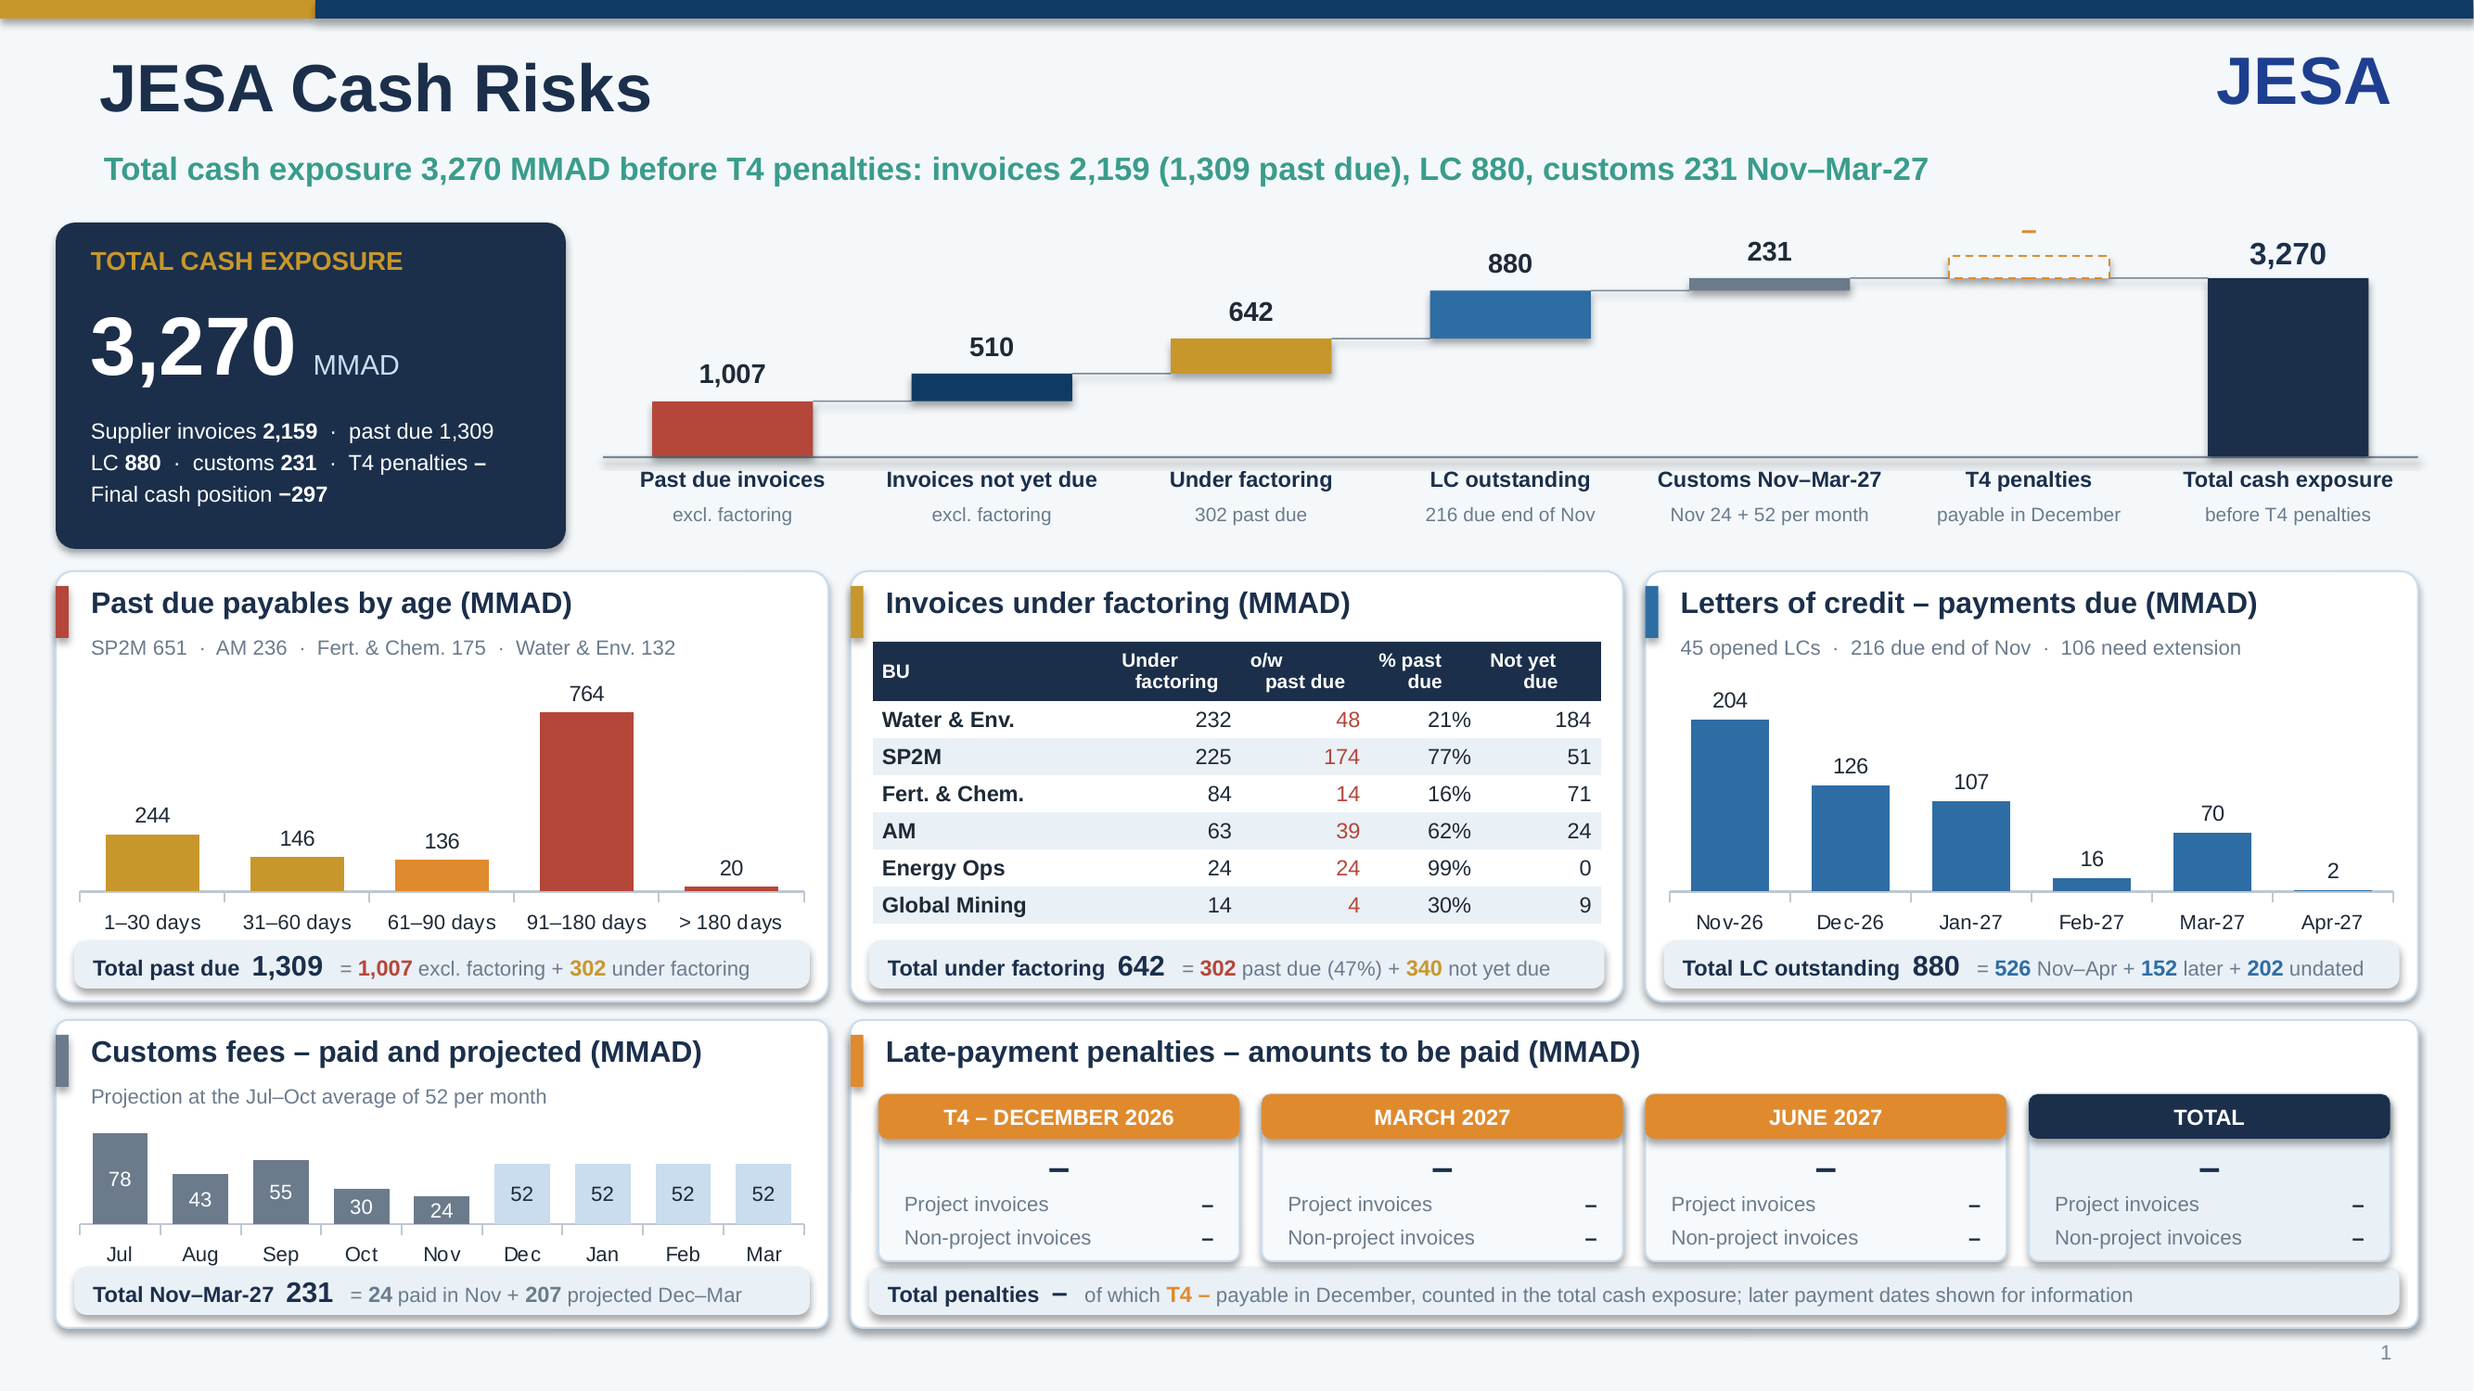
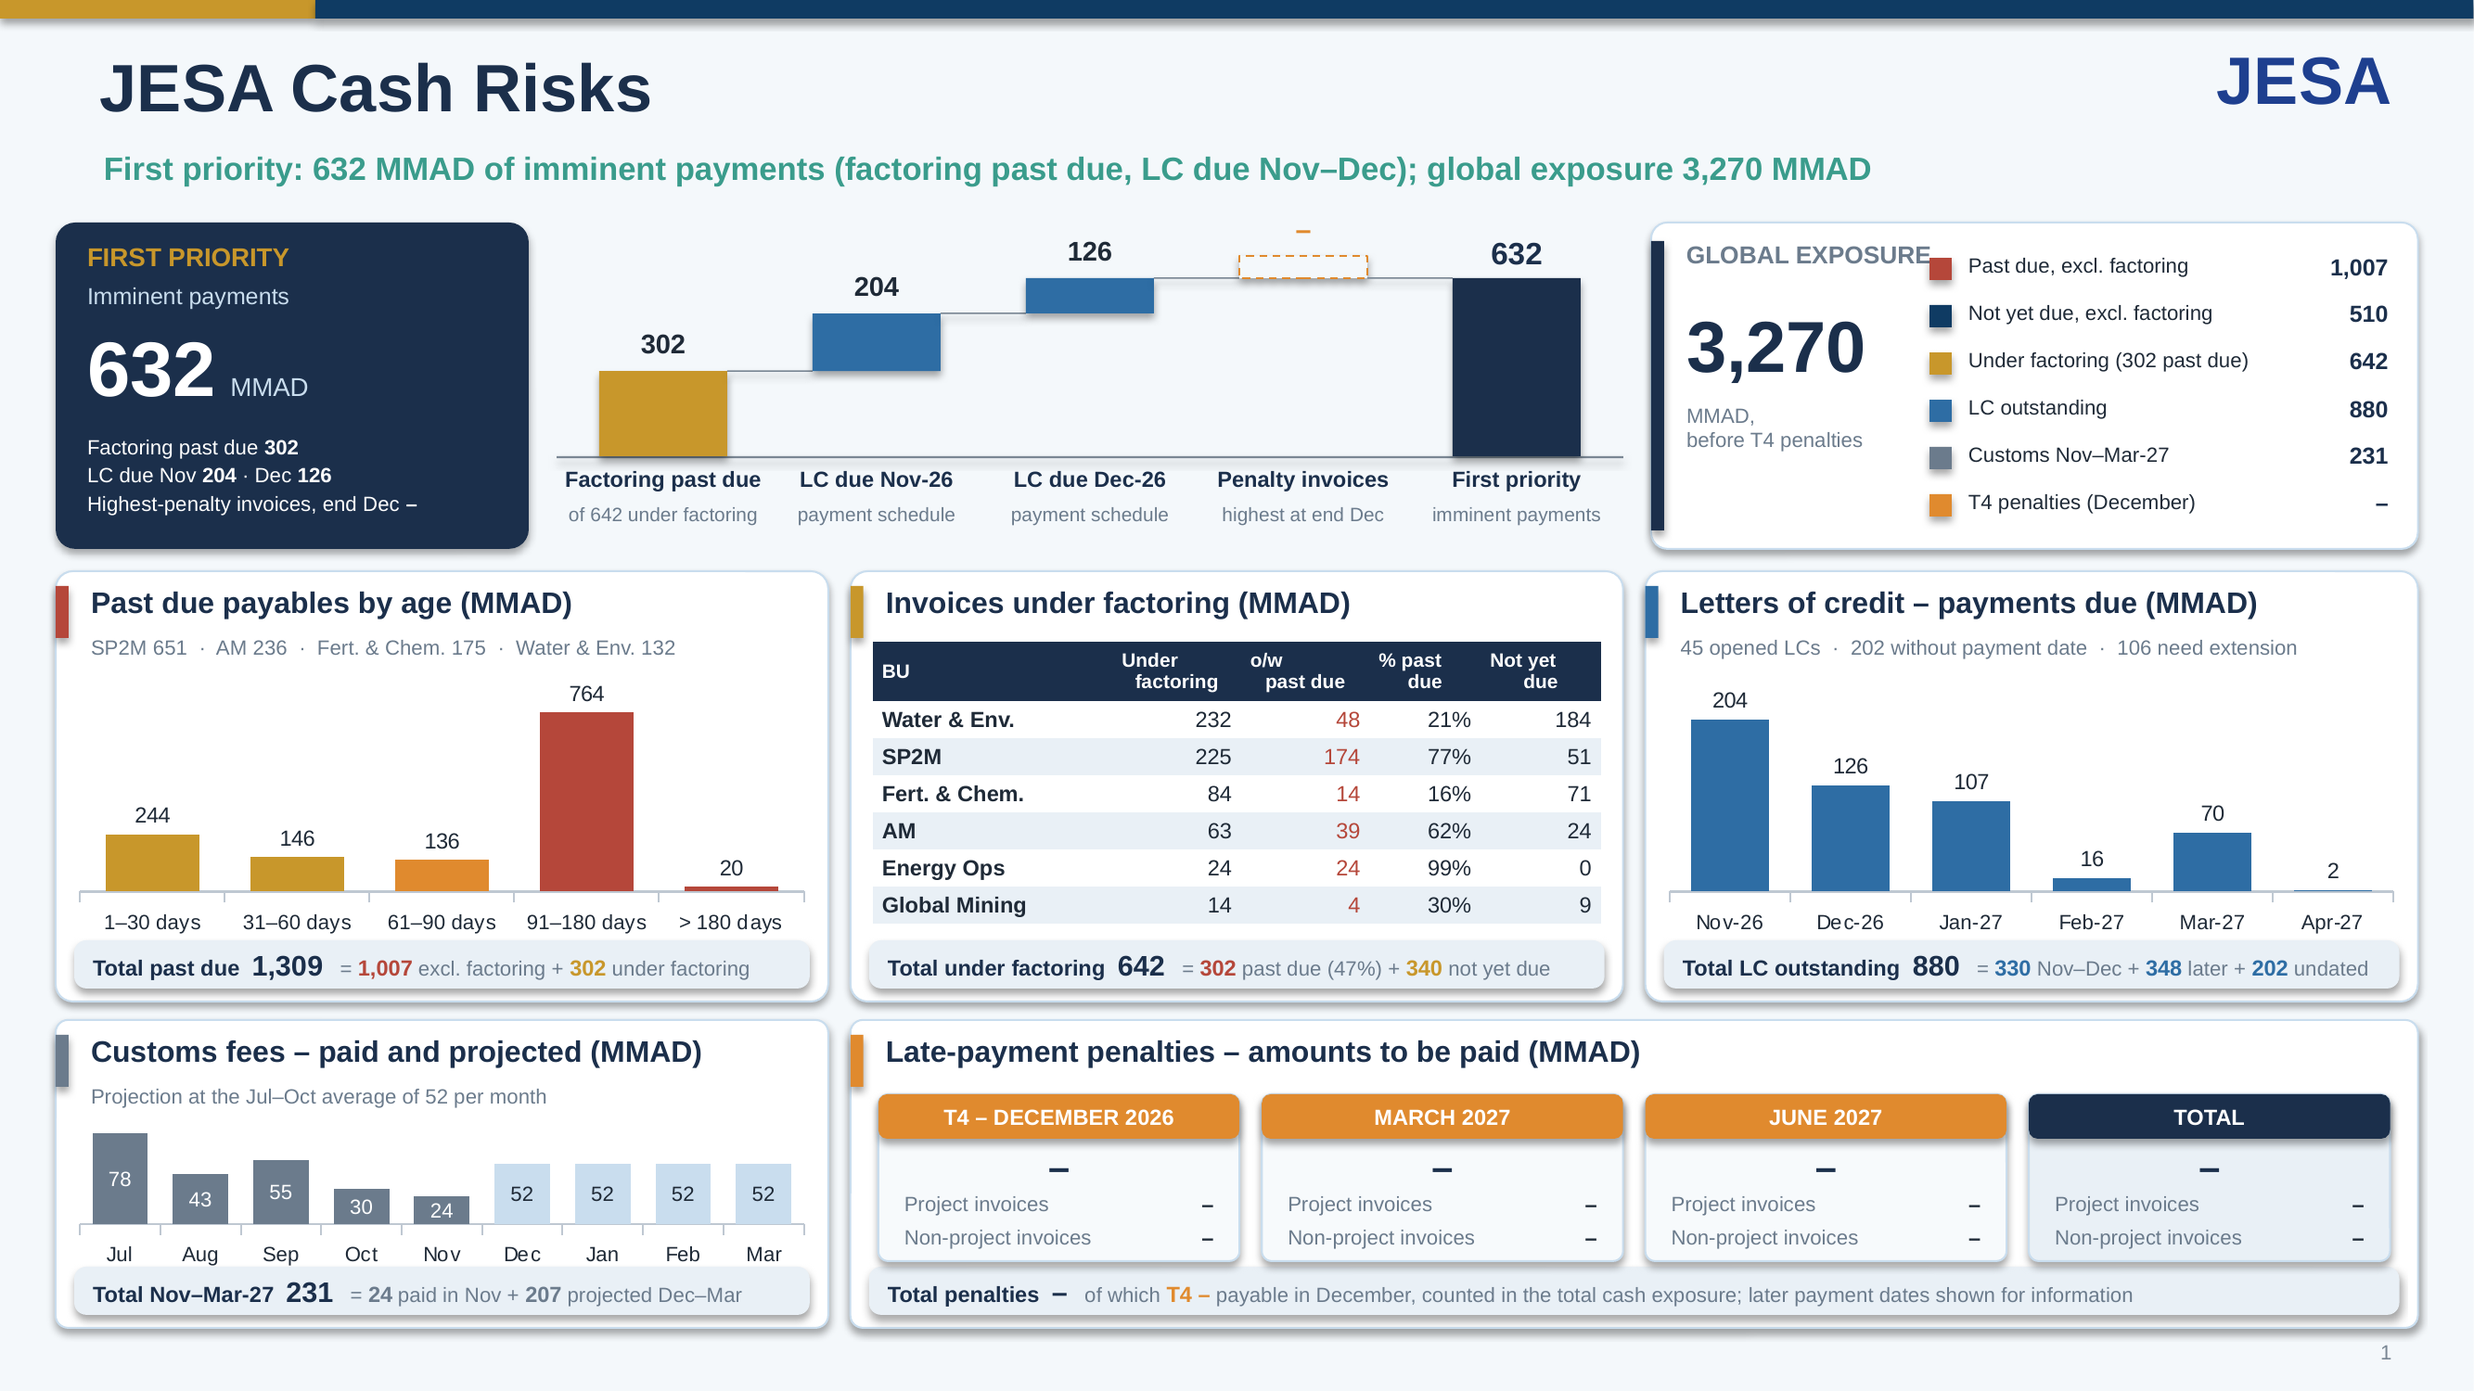
Cash risks slide: first-priority imminent payments waterfall, global exposure box
Claude-Session: https://claude.ai/code/session_01GRGYp2p9fdXmxQMcLgyM1e

Changed region(s): [[0.0311, 0.092, 0.9959, 0.3987], [0.7469, 0.46, 0.9336, 0.4907], [0.8403, 0.6747, 0.9648, 0.7053]]

diff --git a/weekly-ar-cash-deck/build_deck.py b/weekly-ar-cash-deck/build_deck.py
@@ -1500,24 +1500,28 @@ def build(data, meta, out):
         pen_tot = ((ps[dues[0]].get("project") or 0) + (ps[dues[0]].get("non_project") or 0)) if dues[0] in ps else None
         pen_lab = "T4 penalties"; pen_when = dt.date.fromisoformat(dues[0] + "-01").strftime("%B")
         expo = r_inv + lc_all + cus_expo + (pen_tot or 0)
-        s = D.slide("JESA Cash Risks", f"Total cash exposure {f0(expo)} MMAD" + ("" if pen_tot is not None else " before T4 penalties") + f": invoices {f0(r_inv)} ({f0(r_pd)} past due), LC {f0(lc_all)}, customs {f0(cus_expo)} {com}–{mar_lab}")
-        # ---- top: total exposure and its build-up by category
+        _im0 = r_fpd + sum(mt[m] for m in months[:2])
+        s = D.slide("JESA Cash Risks", f"First priority: {f0(_im0)} MMAD of imminent payments (factoring past due, LC due {dt.date.fromisoformat(str(months[0])[:7] + '-01').strftime('%b')}–{dt.date.fromisoformat(str(months[1])[:7] + '-01').strftime('%b')}); global exposure {f0(expo)} MMAD")
+        # ---- top: first priority (imminent payments, waterfall) and the global exposure
         ty, th = 1.2, 1.76
-        rect(s, 0.3, ty, 2.75, th, NAVY, shape=MSO_SHAPE.ROUNDED_RECTANGLE, radius=0.06)
-        tb(s, 0.45, ty + 0.1, 2.5, 0.26, "TOTAL CASH EXPOSURE", size=10, bold=True, color=GOLD)
-        tb(s, 0.45, ty + 0.36, 2.5, 0.6, [[(f0(expo), {"size": 32, "bold": True, "color": WHITE}), ("  MMAD", {"size": 11, "color": LBLUE})]])
-        tb(s, 0.45, ty + 1.0, 2.5, 0.8, [[("Supplier invoices ", {}), (f0(r_inv), {"bold": True}), (f"  ·  past due {f0(r_pd)}", {})],
-                                           [("LC ", {}), (f0(lc_all), {"bold": True}), ("  ·  customs ", {}), (f0(cus_expo), {"bold": True}), ("  ·  T4 penalties ", {}), ((f1(pen_tot) if pen_tot is not None else "–"), {"bold": True})],
-                                           [("Final cash position ", {}), (fd(net_all), {"bold": True})]], size=8.5, color=WHITE, line_spacing=1.2)
-        wcat = [("Past due invoices", "excl. factoring", r_pd - r_fpd, RED), ("Invoices not yet due", "excl. factoring", (r_inv - r_pd) - (r_f - r_fpd), NAVY2),
-                ("Under factoring", f"{f0(r_fpd)} past due", r_f, GOLD), ("LC outstanding", f"{f0(appr_lc)} due end of {com}", lc_all, BLUE),
-                (f"Customs {com}–{mar_lab}", f"{com} {f0(cus_m[-1][1])} + {f0(cus_avg)} per month", cus_expo, SLATE), (pen_lab, f"payable in {pen_when}", pen_tot, ORANGE),
-                ("Total cash exposure", ("" if pen_tot is not None else "before T4 penalties"), expo, NAVY)]
-        wx, ww = 3.25, SW - 0.3 - 3.25; n_ = len(wcat); slot = ww / n_; bwid = slot * 0.62; base_y = ty + th - 0.5; top_y = ty + 0.3; sc = (base_y - top_y) / (expo or 1)
+        def _ml(m): return dt.date.fromisoformat(str(m)[:7] + "-01").strftime("%b")
+        lc_im = [(m, mt[m]) for m in months[:2]]   # LC payments due in the month in progress and the next one
+        pinv = meta.get("ap_penalty_priority_invoices"); pinv = float(pinv) if pinv not in (None, "", "None") else None   # invoices that generate the highest penalties at the first payment date
+        imm = r_fpd + sum(v for _, v in lc_im) + (pinv or 0)
+        rect(s, 0.3, ty, 2.55, th, NAVY, shape=MSO_SHAPE.ROUNDED_RECTANGLE, radius=0.06)
+        tb(s, 0.43, ty + 0.08, 2.35, 0.24, "FIRST PRIORITY", size=10, bold=True, color=GOLD)
+        tb(s, 0.43, ty + 0.3, 2.35, 0.22, "Imminent payments", size=9, color=LBLUE)
+        tb(s, 0.43, ty + 0.5, 2.35, 0.56, [[(f0(imm), {"size": 30, "bold": True, "color": WHITE}), ("  MMAD", {"size": 10, "color": LBLUE})]])
+        tb(s, 0.43, ty + 1.1, 2.35, 0.62, [[("Factoring past due ", {}), (f0(r_fpd), {"bold": True})],
+                                            [("LC due ", {})] + [x for j, (m, v) in enumerate(lc_im) for x in (((" · ", {}),) if j else ()) + ((f"{_ml(m)} ", {}), (f0(v), {"bold": True}))],
+                                            [(f"Highest-penalty invoices, end {pen_when[:3]} ", {}), ((f0(pinv) if pinv is not None else "–"), {"bold": True})]], size=8, color=WHITE, line_spacing=1.15)
+        wcat = [("Factoring past due", f"of {f0(r_f)} under factoring", r_fpd, GOLD)] + [(f"LC due {_ml(m)}-{str(m)[2:4]}", "payment schedule", v, BLUE) for m, v in lc_im] + \
+               [("Penalty invoices", f"highest at end {pen_when[:3]}", pinv, ORANGE), ("First priority", "imminent payments", imm, NAVY)]
+        wx, ww = 3.0, 5.75; n_ = len(wcat); slot = ww / n_; bwid = slot * 0.6; base_y = ty + th - 0.5; top_y = ty + 0.3; sc = (base_y - top_y) / (imm or 1)
         rect(s, wx, base_y, ww, 0.012, GREY); run = 0.0
         for i, (lab, sub, v, col) in enumerate(wcat):
             bx = wx + i * slot + (slot - bwid) / 2; last = i == n_ - 1
-            y_top = base_y - ((expo if last else run + (v or 0)) * sc); y_bot = base_y if last else base_y - run * sc
+            y_top = base_y - ((imm if last else run + (v or 0)) * sc); y_bot = base_y if last else base_y - run * sc
             if v is None:   # nothing to show yet: dotted placeholder at the running level
                 ph = rect(s, bx, y_bot - 0.12, bwid, 0.12, BG, line=col); ph.line.dash_style = 4
                 tb(s, bx - 0.2, y_bot - 0.38, bwid + 0.4, 0.24, "–", size=11, bold=True, color=col, align=PP_ALIGN.CENTER)
@@ -1526,8 +1530,21 @@ def build(data, meta, out):
                 tb(s, bx - 0.2, y_top - 0.26, bwid + 0.4, 0.24, f0(v), size=(12 if last else 10.5), bold=True, color=(NAVY if last else DARK), align=PP_ALIGN.CENTER)
                 if not last: run += v
             if not last: rect(s, bx + bwid, base_y - run * sc - 0.004, slot - bwid, 0.008, GREY)   # connector to the next bar
-            tb(s, wx + i * slot, base_y + 0.03, slot, 0.22, lab, size=8.5, bold=True, color=NAVY, align=PP_ALIGN.CENTER)
-            if sub: tb(s, wx + i * slot, base_y + 0.23, slot, 0.2, sub, size=7.5, color=SLATE, align=PP_ALIGN.CENTER)
+            tb(s, wx + i * slot - 0.05, base_y + 0.03, slot + 0.1, 0.22, lab, size=8.5, bold=True, color=NAVY, align=PP_ALIGN.CENTER)
+            if sub: tb(s, wx + i * slot - 0.05, base_y + 0.23, slot + 0.1, 0.2, sub, size=7.5, color=SLATE, align=PP_ALIGN.CENTER)
+        # global exposure: one box, by category
+        gx_ = wx + ww + 0.15; gw_ = SW - 0.3 - gx_
+        rect(s, gx_, ty, gw_, th, WHITE, line=LBLUE, shape=MSO_SHAPE.ROUNDED_RECTANGLE, radius=0.05); rect(s, gx_, ty + 0.1, 0.07, th - 0.2, NAVY)
+        tb(s, gx_ + 0.15, ty + 0.07, 1.5, 0.24, "GLOBAL EXPOSURE", size=9.5, bold=True, color=SLATE)
+        tb(s, gx_ + 0.15, ty + 0.4, 1.45, 0.5, f0(expo), size=28, bold=True, color=NAVY)
+        tb(s, gx_ + 0.15, ty + 0.95, 1.45, 0.5, ["MMAD" + ("" if pen_tot is not None else ","), ("" if pen_tot is not None else "before T4 penalties")], size=8, color=SLATE, line_spacing=1.0)
+        grow = [("Past due, excl. factoring", r_pd - r_fpd, RED), ("Not yet due, excl. factoring", (r_inv - r_pd) - (r_f - r_fpd), NAVY2), (f"Under factoring ({f0(r_fpd)} past due)", r_f, GOLD),
+                ("LC outstanding", lc_all, BLUE), (f"Customs {com}–{mar_lab}", cus_expo, SLATE), (f"{pen_lab} ({pen_when})", pen_tot, ORANGE)]
+        rx = gx_ + 1.5; rw = gw_ - 1.5 - 0.12
+        for k, (lab, v, col) in enumerate(grow):
+            ry = ty + 0.14 + k * 0.255
+            rect(s, rx, ry + 0.05, 0.12, 0.12, col); tb(s, rx + 0.17, ry, rw - 0.72, 0.22, lab, size=8, color=DARK)
+            tb(s, rx + rw - 0.6, ry, 0.6, 0.22, (f0(v) if v is not None else "–"), size=9, bold=True, color=NAVY, align=PP_ALIGN.RIGHT)
         def panel(x, y, w, h, title, sub=None, accent=NAVY2):
             rect(s, x, y, w, h, WHITE, line=LBLUE, shape=MSO_SHAPE.ROUNDED_RECTANGLE, radius=0.04); rect(s, x, y + 0.08, 0.07, 0.28, accent)
             tb(s, x + 0.15, y + 0.05, w - 0.3, 0.28, title, size=11.5, bold=True, color=NAVY)
@@ -1554,10 +1571,10 @@ def build(data, meta, out):
         total_strip(x2, y1, pw, h1, "Total under factoring", f0(r_f), [("= ", {}), B(f0(r_fpd), RED), (f" past due ({r_fpd/(r_f or 1)*100:.0f}%) + ", {}), B(f0(r_f - r_fpd), GOLD), (" not yet due", {})])
         # ---- 3. letters of credit: payments due by month
         lm = months[:6]
-        panel(x3, y1, pw, h1, "Letters of credit – payments due (MMAD)", f"{n_lc} opened LCs  ·  {f0(appr_lc)} due end of {com}" + (f"  ·  {f0(lc_ext)} need extension" if lc_ext > 0.5 else ""), BLUE)
+        panel(x3, y1, pw, h1, "Letters of credit – payments due (MMAD)", f"{n_lc} opened LCs  ·  {f0(lc_all - lc_sched)} without payment date" + (f"  ·  {f0(lc_ext)} need extension" if lc_ext > 0.5 else ""), BLUE)
         bar_chart(s, x3 + 0.05, y1 + 0.56, pw - 0.1, h1 - 0.6 - ST, [dt.date.fromisoformat(str(m)[:7] + "-01").strftime("%b-%y") for m in lm], [("LC payments", [mt[m] for m in lm])], [BLUE], legend=False, gap=55, cat_size=8, label_size=8.5, label_pos=XL_LABEL_POSITION.OUTSIDE_END)
         lc6 = sum(mt[m] for m in lm)
-        total_strip(x3, y1, pw, h1, "Total LC outstanding", f0(lc_all), [("= ", {}), B(f0(lc6), BLUE), (f" {dt.date.fromisoformat(str(lm[0])[:7] + '-01').strftime('%b')}–{dt.date.fromisoformat(str(lm[-1])[:7] + '-01').strftime('%b')} + ", {}), B(f0(lc_sched - lc6), BLUE), (" later + ", {}), B(f0(lc_all - lc_sched), BLUE), (" undated", {})])
+        total_strip(x3, y1, pw, h1, "Total LC outstanding", f0(lc_all), [("= ", {}), B(f0(sum(mt[m] for m in months[:2])), BLUE), (f" {dt.date.fromisoformat(str(months[0])[:7] + '-01').strftime('%b')}–{dt.date.fromisoformat(str(months[1])[:7] + '-01').strftime('%b')} + ", {}), B(f0(lc_sched - sum(mt[m] for m in months[:2])), BLUE), (" later + ", {}), B(f0(lc_all - lc_sched), BLUE), (" undated", {})])
         # ---- 4. customs fees: paid and projected
         panel(x1, y2, pw, h2, "Customs fees – paid and projected (MMAD)", f"Projection at the Jul–{cam} average of {f0(cus_avg)} per month" if proj_m else f"Paid since July {f0(cus_tot)}", SLATE)
         ccats = [m for m, _ in cus_m] + proj_m

diff --git a/weekly-ar-cash-deck/extract_inputs.py b/weekly-ar-cash-deck/extract_inputs.py
@@ -1122,6 +1122,7 @@ def main():
             "collections_to": a.collections_to or "19/10", "payments_to": a.payments_to or "15/10", "lc_date": a.lc_date or "19/10", "ap_label": a.ap_label or "Oct W3",
             "cash_basis": cash["basis"], "units": "MMAD (millions of MAD)", "ur_prev_source": (ur or {}).get("prev_source", ""), "collections_basis": "AR paid lines by payment date, amount invoiced (same basis as 'Invoices paid' in the BU meeting report)",
             "deposited_month": cur["deposited_total"], "note_psr_signature": a.psr_note or "",
+            "ap_penalty_priority_invoices": (pen or {}).get("priority_invoices"),
             "ap_penalties": (pen or {}).get("total"), "ap_penalties_label": (pen or {}).get("label") or "",
             "rfq1_month": (rfq1 or {}).get("month") or "",
             "ap_total_prev": P.get("ap_total"), "ap_overdue_prev": P.get("ap_overdue"),

diff --git a/.claude/skills/weekly-ar-deck/SKILL.md b/.claude/skills/weekly-ar-deck/SKILL.md
@@ -217,12 +217,14 @@ The reviewer used to strip the deck by hand before sending; the builder now prod
 `build_deck.py --only risk --out output/JESA_Cash_Risks_<week>.pptx` (built by `run_week.sh`; `--with-risk` puts it in the
 deck after the LC slide, only when asked). Content:
 
-- Top: **total cash exposure** = supplier invoices + LC outstanding + customs from the month in progress to next March
-  (paid to date in the month + projection; earlier months are not counted) + **T4 penalties only** (first payment date,
-  December; the March and June amounts are shown in the penalties section but stay out of the total), with a
-  waterfall by category: past due invoices excl. factoring, invoices not yet due excl. factoring, invoices under
-  factoring (past due part quoted), LC outstanding, customs projection, penalties, total. Factoring is carved out of the
-  two invoice bars so nothing is counted twice. No KPI boxes.
+- Top left: **first priority – imminent payments**, with the waterfall: factoring past due, LC due in the month in
+  progress, LC due next month (LC payment schedule, same figures as the LC panel), invoices that generate the highest
+  penalties at the December payment date (blank until the penalties file gives them: `"priority_invoices": MMAD` in the
+  penalties JSON; do not count twice invoices already in the factoring past due), total first priority.
+- Top right: **global exposure** box, no waterfall = supplier invoices (past due excl. factoring, not yet due excl.
+  factoring, under factoring) + LC outstanding + customs from the month in progress to next March (paid to date in the
+  month + projection; earlier months are not counted) + **T4 penalties only** (December; March and June are shown in
+  the penalties section but stay out of the total).
 - Panels: past due payables by age; factoring by BU (factoring, past due, not yet due); LC payments due over the next six
   months; customs paid by month plus a projection to March at the average of the closed months since July (the month
   in progress is shown as paid to date and not topped up); late-payment penalties to be paid in December, March and
